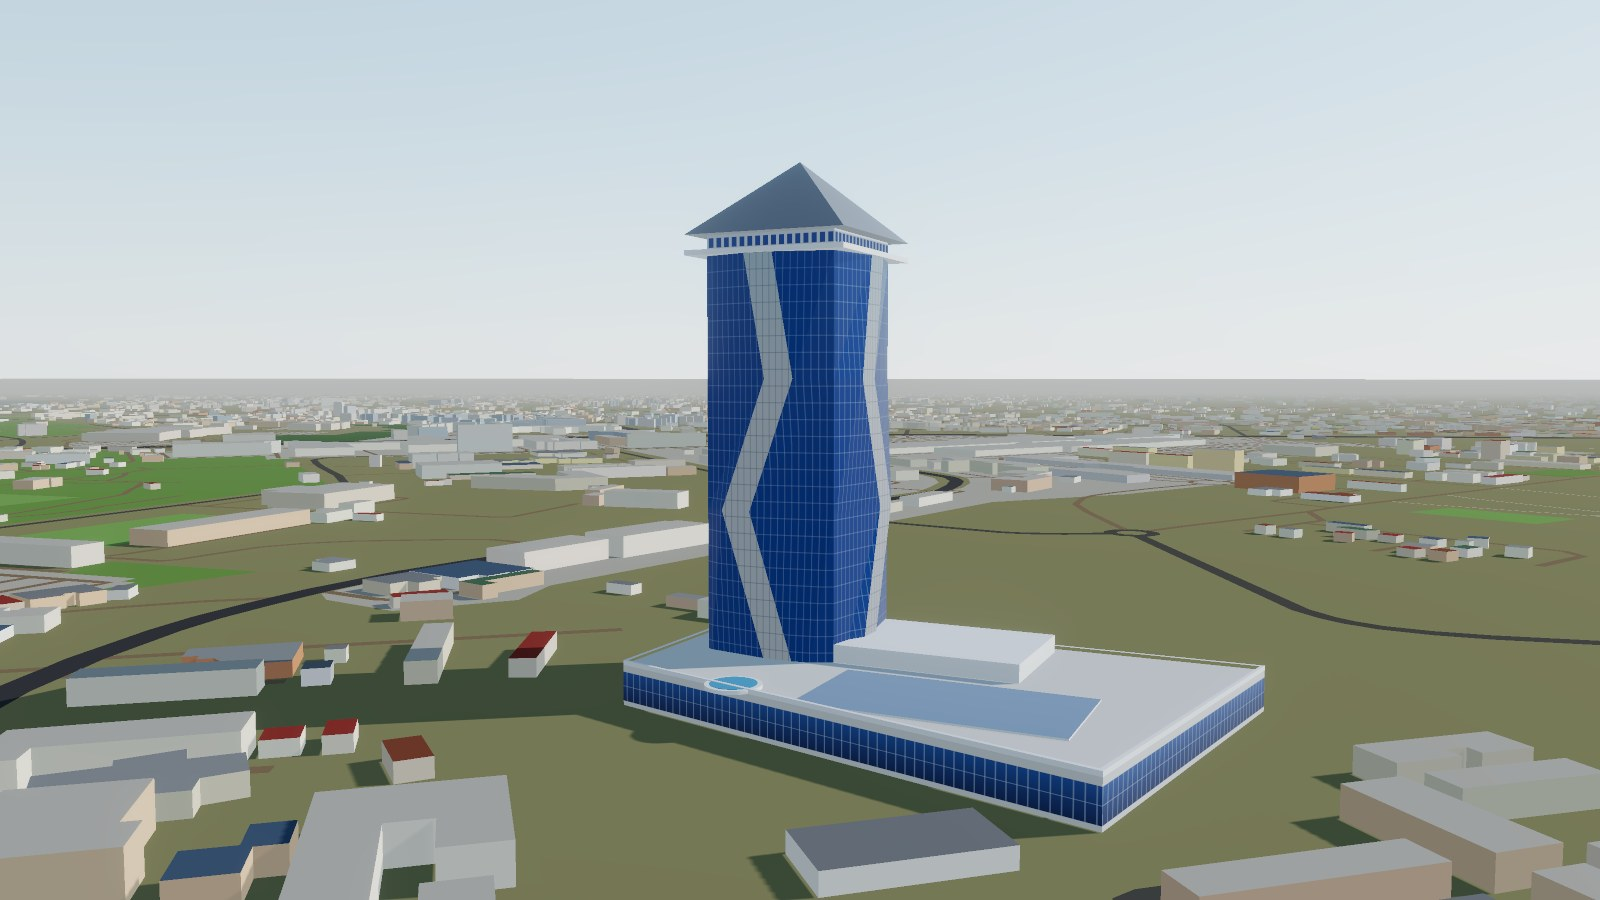
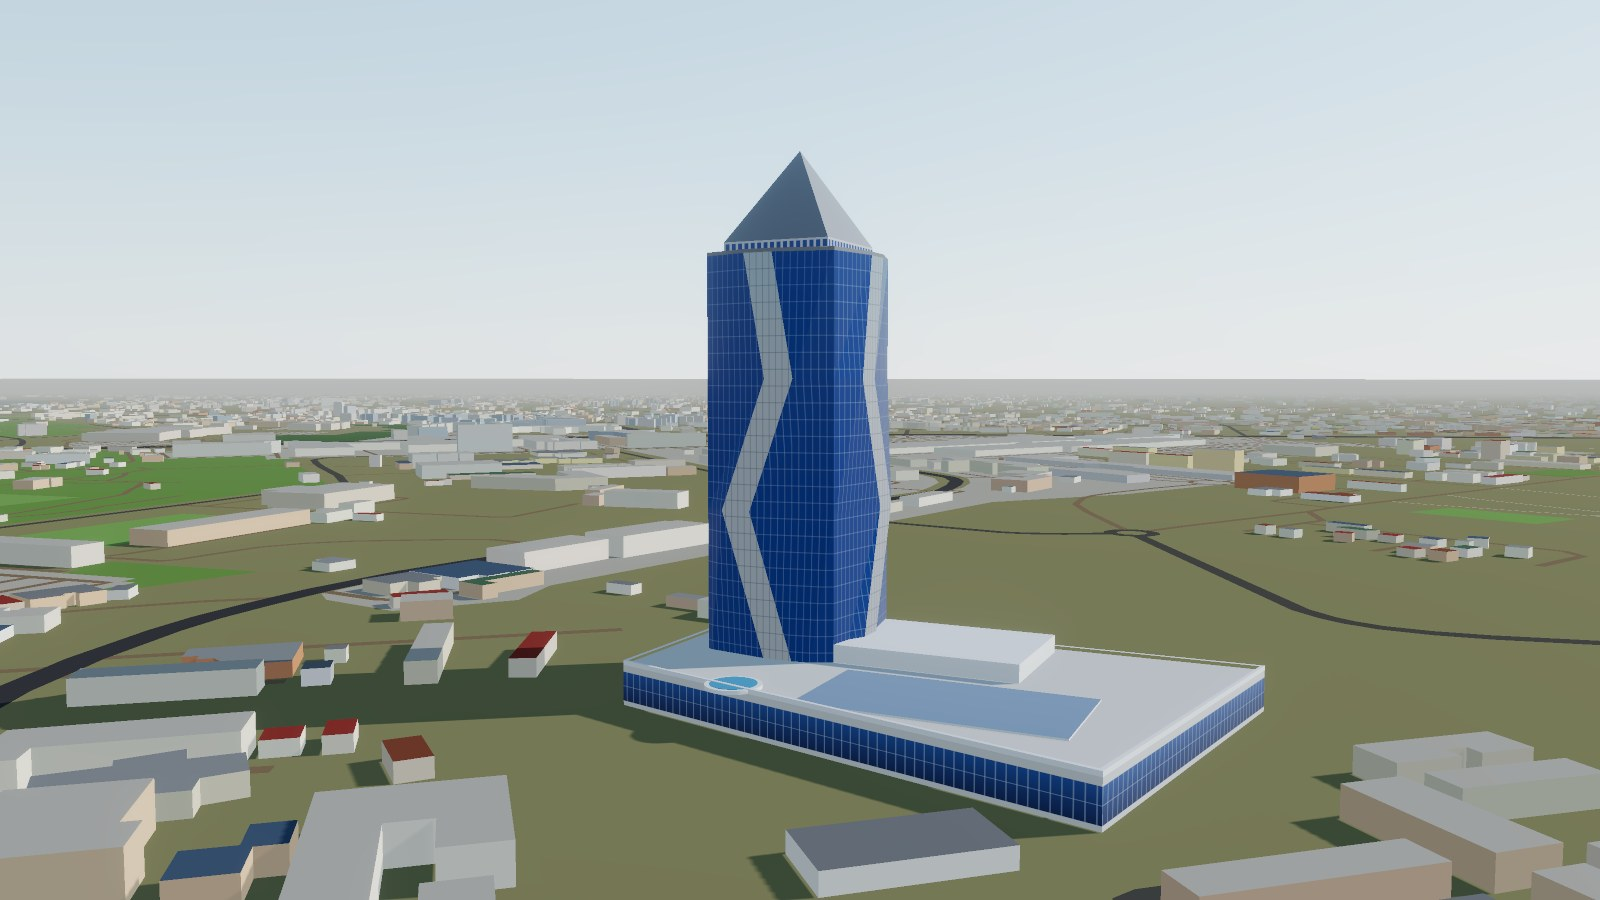
Set the Pyramid Tower's pyramid inside the roof edge
The pyramid sat on a white cap that overhung the shaft. As in the photos,
the roof is now flat to the edge of the folded outline, and the pyramid
stands well inside it on a low windowed plinth, its base 82% of the
shaft width, a little taller and steeper than before.

Changed region(s): [[0.4375, 0.1867, 0.5625, 0.3111], [0.0, 0.7467, 0.0312, 0.7778]]

diff --git a/src/landmarks/pyramid-tower.js b/src/landmarks/pyramid-tower.js
@@ -1,8 +1,9 @@
 // Pyramid Tower ("Burj Kalingalinga", the Continental Pyramid Hotel), Thabo
 // Mbeki Road. A square tower whose four glass faces are folded: each face
 // rises from its corners to a raised zigzag strip of pale silver glass, so
-// the facets catch the light differently (blue by day, gold at sunset). A
-// white cap overhangs the shaft under a ring of windows and a grey pyramid.
+// the facets catch the light differently (blue by day, gold at sunset). The
+// roof is flat to the edge; set well back inside it, a low windowed plinth
+// carries a grey pyramid.
 // It stands at the north-west corner of a two-storey glass podium whose roof
 // carries white terraces, a pale-blue glass roof, a round pool and a raised
 // block against the tower. Not in OSM; placed from Esri imagery, shaped from
@@ -17,7 +18,8 @@ export const PYRAMID = { x: 1452, z: 785, bearing: 190 };
 const W = 32; // shaft width at the corners
 const FOLD = 3.2; // how far the zigzag strip stands out from the corners
 const BAND = 0.11; // half-width of the silver strip, as a fraction of W
-const SHAFT_TOP = 100, CROWN_H = 3.5, PEAK_H = 18;
+const SHAFT_TOP = 100, CROWN_H = 2.5, PEAK_H = 22;
+const INSET = 0.82; // the pyramid's base, as a fraction of the shaft width: it sits inside the roof edge
 const FLOORS = 27;
 // Zigzag centreline across a face: [height fraction, across fraction].
 const ZIGZAG = [[0, 0.7], [0.42, 0.28], [0.72, 0.62], [1, 0.46]];
@@ -172,25 +174,39 @@ export function buildPyramidTower() {
   };
   put(shaft(mats), 'high', 0);
 
-  // Crown: an overhanging white cap, a ring of windows, the pyramid.
-  const white = new THREE.MeshStandardMaterial({ color: 0xeceef0, roughness: 0.6 });
+  // Roof: a flat slab following the folded outline of the shaft top.
   const grey = new THREE.MeshStandardMaterial({ color: 0x8e9196, roughness: 0.6, metalness: 0.4 });
-  const capW = W + 2 * FOLD + 1.2;
-  put(new THREE.Mesh(new THREE.BoxGeometry(capW, 1.2, capW), white), 'high', SHAFT_TOP + 0.6);
+  const top = [];
+  for (let k = 0; k < 4; k++) {
+    const flip = k % 2 === 1, a = (k * Math.PI) / 2;
+    const f1 = ZIGZAG[ZIGZAG.length - 1][1], c = ((flip ? 1 - f1 : f1) - 0.5) * W, b = BAND * W;
+    // face-local (x across, z out) -> tower frame, walking each face left to right
+    for (const [x, z] of [[-W / 2, 0], [c - b, FOLD], [c + b, FOLD]]) {
+      const zz = W / 2 + z;
+      top.push([x * Math.cos(a) + zz * Math.sin(a), -x * Math.sin(a) + zz * Math.cos(a)]);
+    }
+  }
+  const roofShape = new THREE.Shape(top.map(([x, z]) => new THREE.Vector2(x, -z)));
+  const roofSlab = new THREE.Mesh(new THREE.ExtrudeGeometry(roofShape, { depth: 0.8, bevelEnabled: false }), grey);
+  roofSlab.geometry.rotateX(-Math.PI / 2);
+  put(roofSlab, 'high', SHAFT_TOP);
+
+  // Inset plinth with a ring of windows, then the pyramid on the same base.
+  const base = W * INSET;
   const ringTex = canvasTex(256, 32, (g, w, h) => {
-    g.fillStyle = '#d0d4d9';
+    g.fillStyle = '#c3c8ce';
     g.fillRect(0, 0, w, h);
     g.fillStyle = '#2f5aa3';
     for (let x = 4; x < w; x += 16) g.fillRect(x, 6, 10, h - 12);
   });
   const ring = new THREE.MeshStandardMaterial({ map: ringTex, roughness: 0.4, emissive: 0xffd9a0, emissiveIntensity: 0 });
-  put(new THREE.Mesh(new THREE.BoxGeometry(W, CROWN_H, W), [ring, ring, grey, grey, ring, ring]), 'high', SHAFT_TOP + 1.2 + CROWN_H / 2);
+  put(new THREE.Mesh(new THREE.BoxGeometry(base, CROWN_H, base), [ring, ring, grey, grey, ring, ring]), 'high', SHAFT_TOP + 0.8 + CROWN_H / 2);
   const pyramid = new THREE.Mesh(
-    new THREE.ConeGeometry((capW * Math.SQRT2) / 2, PEAK_H, 4),
-    new THREE.MeshStandardMaterial({ color: 0xaeb2b8, roughness: 0.4, metalness: 0.6, flatShading: true }),
+    new THREE.ConeGeometry((base * Math.SQRT2) / 2, PEAK_H, 4),
+    new THREE.MeshStandardMaterial({ color: 0xb0b4ba, roughness: 0.4, metalness: 0.6, flatShading: true }),
   );
   pyramid.geometry.rotateY(Math.PI / 4);
-  put(pyramid, 'high', SHAFT_TOP + 1.2 + CROWN_H + PEAK_H / 2);
+  put(pyramid, 'high', SHAFT_TOP + 0.8 + CROWN_H + PEAK_H / 2);
 
   f.updateMatrixWorld(true);
   const toWorld = (pts) => pts.flatMap(([x, z]) => {

diff --git a/docs/landmarks/pyramid-tower.md b/docs/landmarks/pyramid-tower.md
@@ -29,7 +29,7 @@ it Zambia's tallest building. Model: `src/landmarks/pyramid-tower.js`.
 | Position | tower centre (1452, 785) in world metres, faces at 10° / 100° | medium (imagery; roof displaced by height) |
 | Shaft | 32 m square, 100 m tall | medium: width from the roof on imagery, height from 27 floors and photo proportions |
 | Facade | folded: each face rises from its corners to a raised zigzag strip of pale silver glass (3.2 m proud), blue glass on a 27-floor grid; mirrored on alternate faces | high form, medium fold depth |
-| Crown | white cap overhanging the folded faces, a 3.5 m ring of windows, grey pyramid 18 m high (top ≈ 123 m) | high form, medium size |
+| Crown | flat roof to the edge of the folded outline; set back inside it, a 2.5 m plinth with a ring of windows and a grey pyramid on a base 82% of the shaft width, 22 m high (top ≈ 125 m) | high form (founder's photo), medium size |
 | Podium | quadrilateral ~130 × 85 m from imagery, 9 m (two storeys): blue glass under a white fascia; roof with white parapet, a raised block against the tower, a pale-blue glass roof (the lilac seen from above) and a round pool | form high, extent medium |
 
 ## Known gaps
